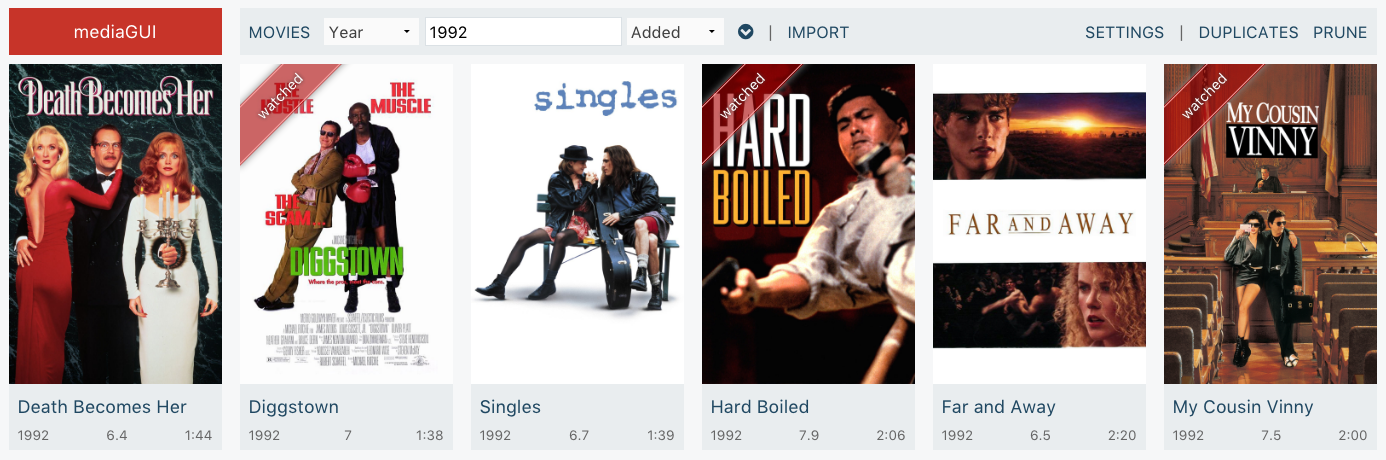
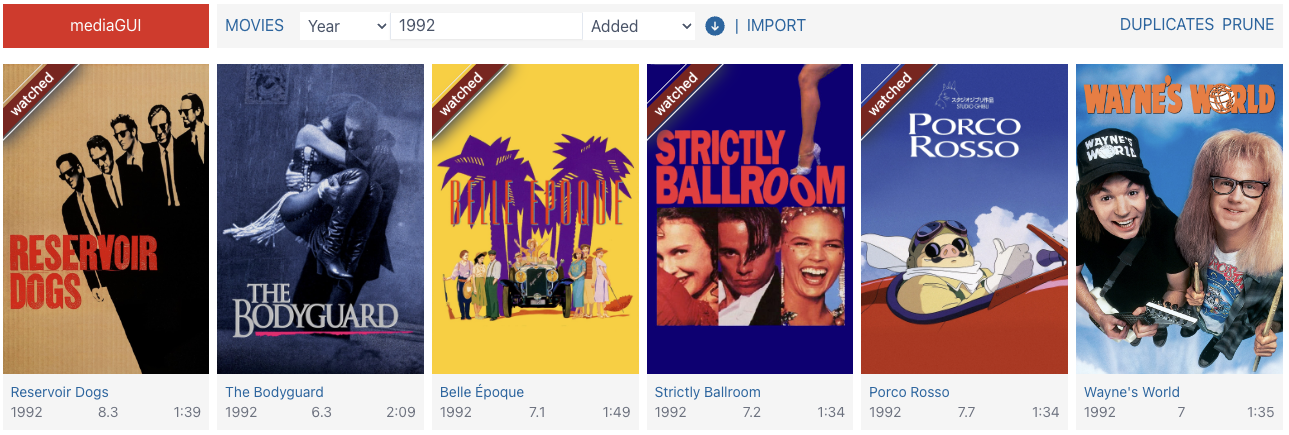
chore: update screenshots and last iteration branch

diff --git a/README.md b/README.md
@@ -43,7 +43,7 @@ Movies View
   - [vue-cli](https://cli.vuejs.org/)
   - [vuex modules](https://vuex.vuejs.org/guide/modules.html)
 
-- 5th Iteration [(code)](https://github.com/jbrodriguez/mediagui/tree/master) <br />
+- 5th Iteration [(code)](https://github.com/jbrodriguez/mediagui/tree/2023.11.22-882b833) <br />
   To learn:
 
   - [gRPC](https://gprc.io/)
